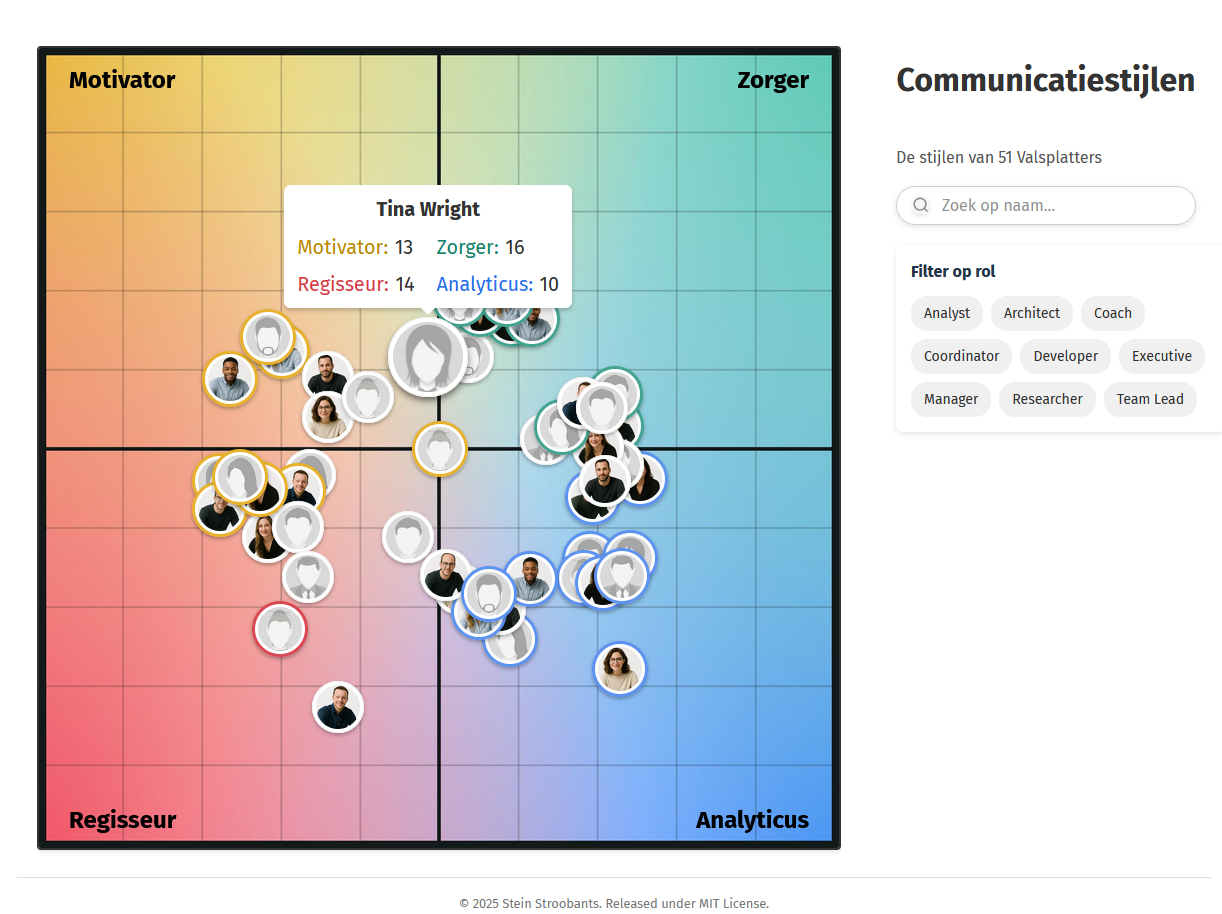
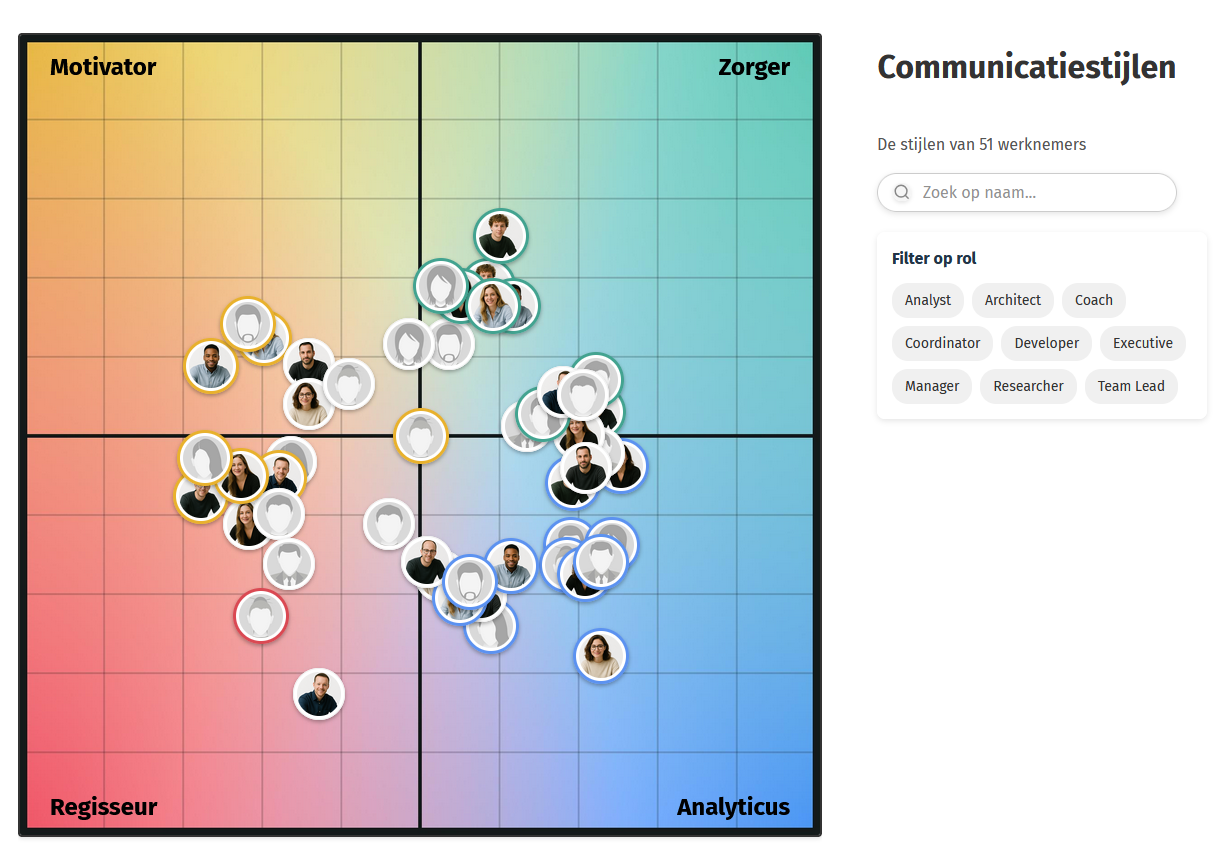
update image

diff --git a/src/App.tsx b/src/App.tsx
@@ -63,8 +63,8 @@ function App() {
             
             <p className="data-info">
               {filteredData.length === data.length 
-                ? `De stijlen van ${data.length} Valsplatters` 
-                : `${filteredData.length} van ${data.length} Valsplatters getoond`}
+                ? `De stijlen van ${data.length} werknemers` 
+                : `${filteredData.length} van ${data.length} werknemers getoond`}
             </p>
             
             <SearchBar 
